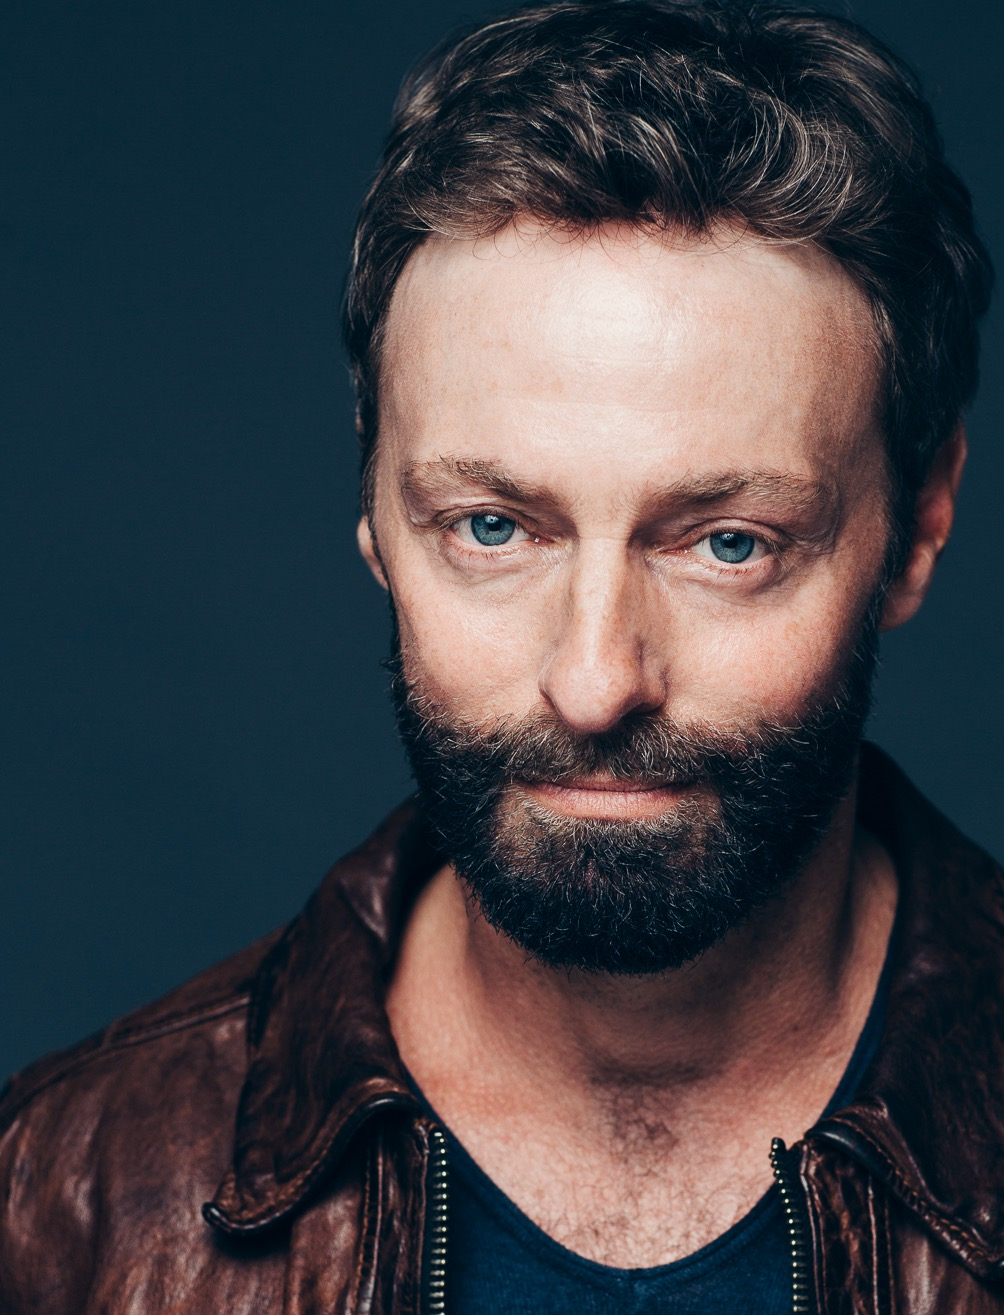
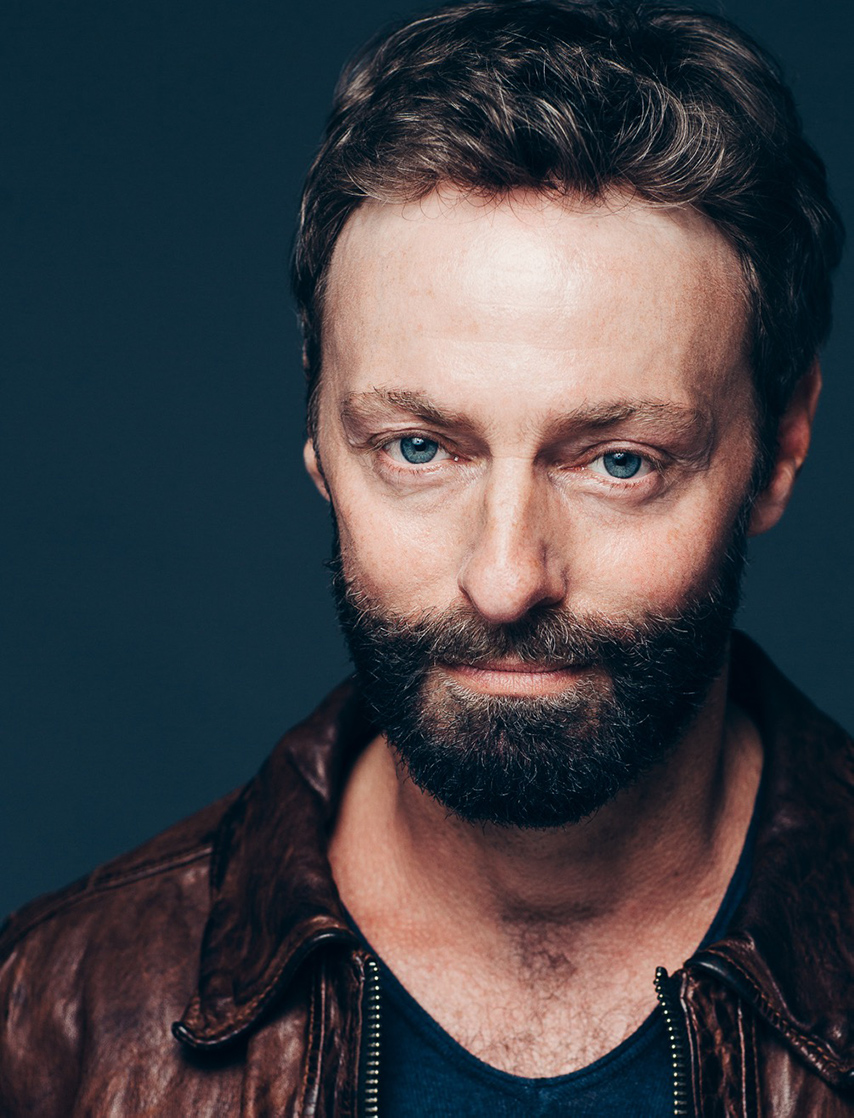
Replace big images into smaller ones

diff --git a/js/index.js b/js/index.js
@@ -25,6 +25,8 @@ demoVideoFour.addEventListener('click', () => {previewImage("four")});
 
 // Add a video on load
 previewImage("one");
+
+// Change preview image
 function previewImage(image) {
   if (image === "one") {
     picture.style.display = "none";
